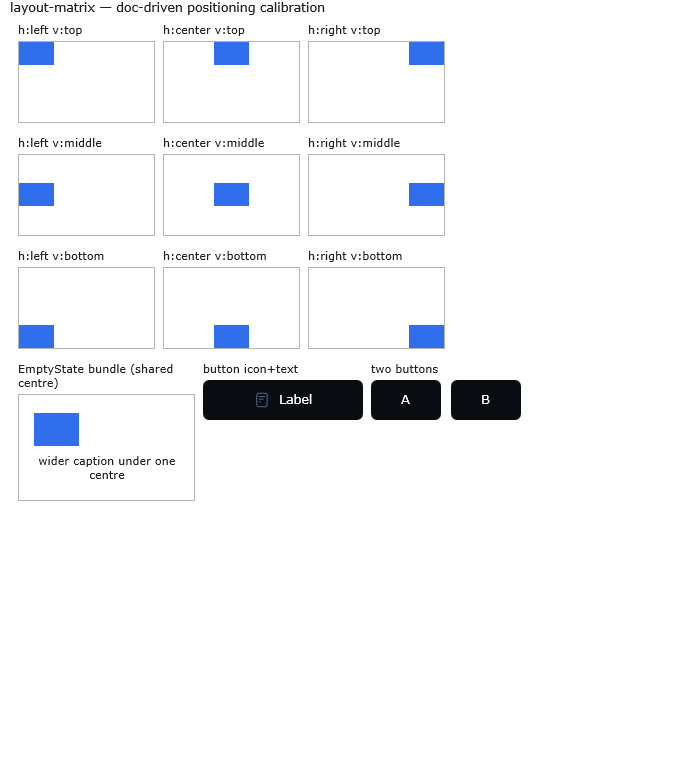
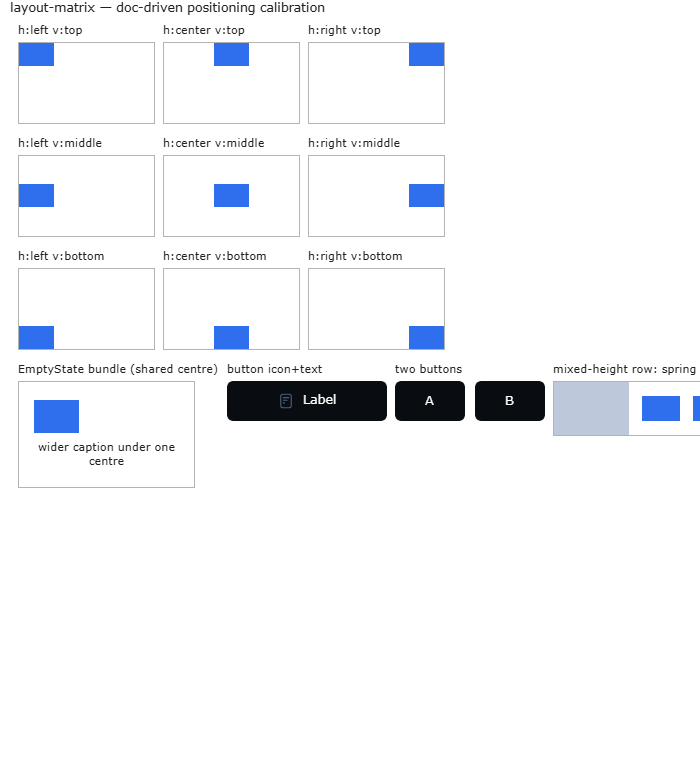
Recalibrate against the correct vendored Sciter engine (6.0.4.3)
Previous calibration.json was probed on scapp 5.0.3.21 from an unrelated
product (via AVANQUEST_LIBRARIES_ROOT), not this project's vendored SDK.
Re-ran calibrate --probes all pinned via SCAPP_BIN at the matching
sciter-js-sdk-main checkout (tools/run-scapp.bat's own dependency),
confirmed engine=6.0.4.3 at runtime. Font profile (Poppins 300/500/600)
matches, layout matrix (13 cases) still holds; render probe reproducibly
fails button/images base-element checks on this engine (degenerate crop
region) — flagged for follow-up, not a stray-window artifact.

diff --git a/.claude/state/layout-matrix.css b/.claude/state/layout-matrix.css
@@ -141,4 +141,48 @@
 
   .matrix__btn--small { width: 56dip; }
   .matrix__btn--b { margin-left: 8dip; }
+
+  /* --- GP-680: mixed-height siblings sharing one flow:horizontal row ---------------------- */
+  /* Reproduces ToolsRibbon's real row shape (42dip row, a full-height sibling + shorter
+     siblings needing independent cross-axis centering) to verify EMPIRICALLY whether
+     spring-margin centering (tried first in the real build, then Gate-1-corrected) or
+     vertical-align-middle centering (the doc-sanctioned recipe) actually lands on this
+     engine. */
+
+  .matrix__mixed-row {
+    display: block; /* every OTHER working flow container in this fixture sets this
+                        explicitly (.matrix__cell, .matrix__btn) — omitting it on a bare
+                        div left flow:horizontal without effect (verified: children
+                        stacked/overlapped instead of sitting side by side). */
+    flow: horizontal;
+    width: 200dip;
+    height: 42dip;
+    border: 1dip solid #b3b3b3;
+  }
+
+  .matrix__mixed-tall {
+    display: block;
+    width: 60dip;
+    height: 42dip;
+    background: var(--color-border-light, #bdc9db);
+  }
+
+  .matrix__mixed-short {
+    display: block;
+    width: 30dip;
+    height: 20dip;
+    background: var(--color-primary, #2f6fed);
+    margin-left: 10dip;
+  }
+
+  /* Technique A — spring margin (the technique that failed in the real build). */
+  .matrix__mixed-short--spring {
+    margin-top: *;
+    margin-bottom: *;
+  }
+
+  /* Technique B — vertical-align:middle (the doc-sanctioned recipe). */
+  .matrix__mixed-short--va {
+    vertical-align: middle;
+  }
 }

diff --git a/.claude/state/layout-matrix.preview.js b/.claude/state/layout-matrix.preview.js
@@ -70,6 +70,19 @@ export const Default = () => (
           </div>
         </div>
       </div>
+      {/* GP-680 case: verifies whether spring-margin cross-axis centering (which failed on
+          ToolsRibbon's divider/zoom-cluster in the real Edit build) or vertical-align-middle
+          centering actually lands, for a shorter sibling among other differently-sized
+          siblings sharing one horizontal row -- a different scenario from the 3x3 grid
+          above, which centers a lone child alone in its own fixed cell. */}
+      <div class="matrix__case">
+        <div class="matrix__caption">mixed-height row: spring vs vertical-align</div>
+        <div class="matrix__mixed-row">
+          <div id="lay-row-tall" class="matrix__mixed-tall" />
+          <div id="lay-row-short-spring" class="matrix__mixed-short matrix__mixed-short--spring" />
+          <div id="lay-row-short-va" class="matrix__mixed-short matrix__mixed-short--va" />
+        </div>
+      </div>
     </div>
   </div>
 );
